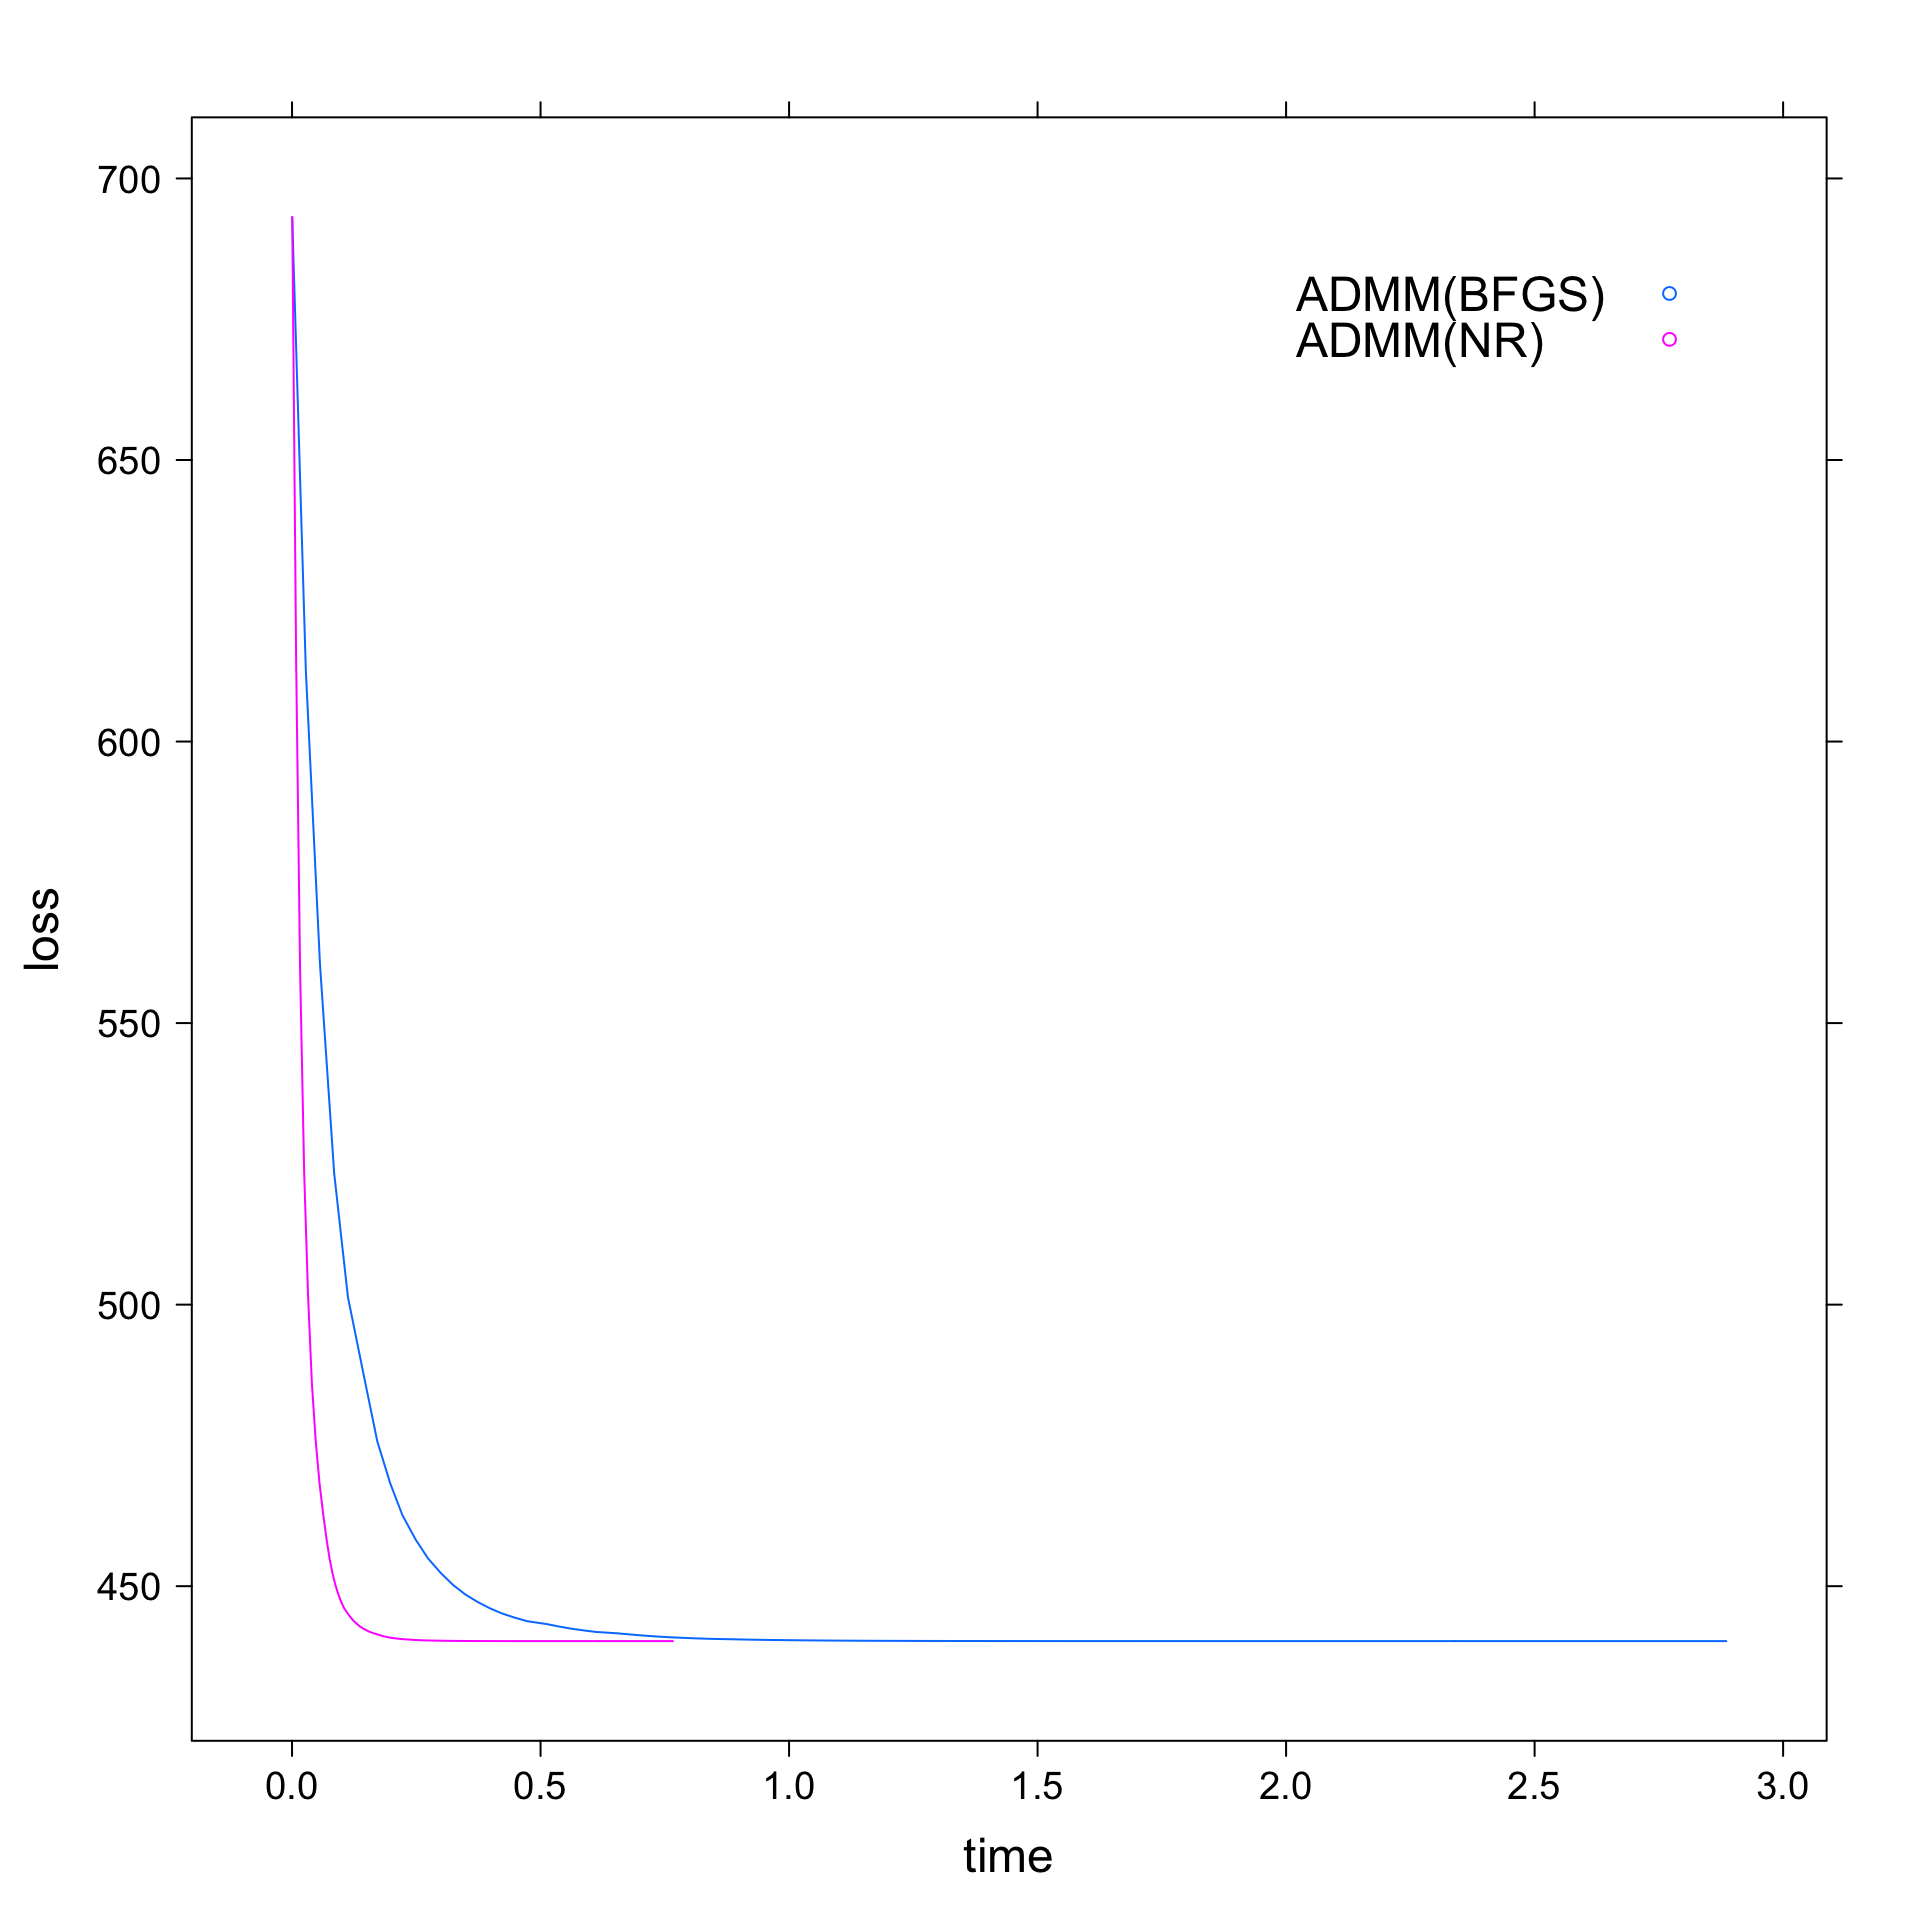
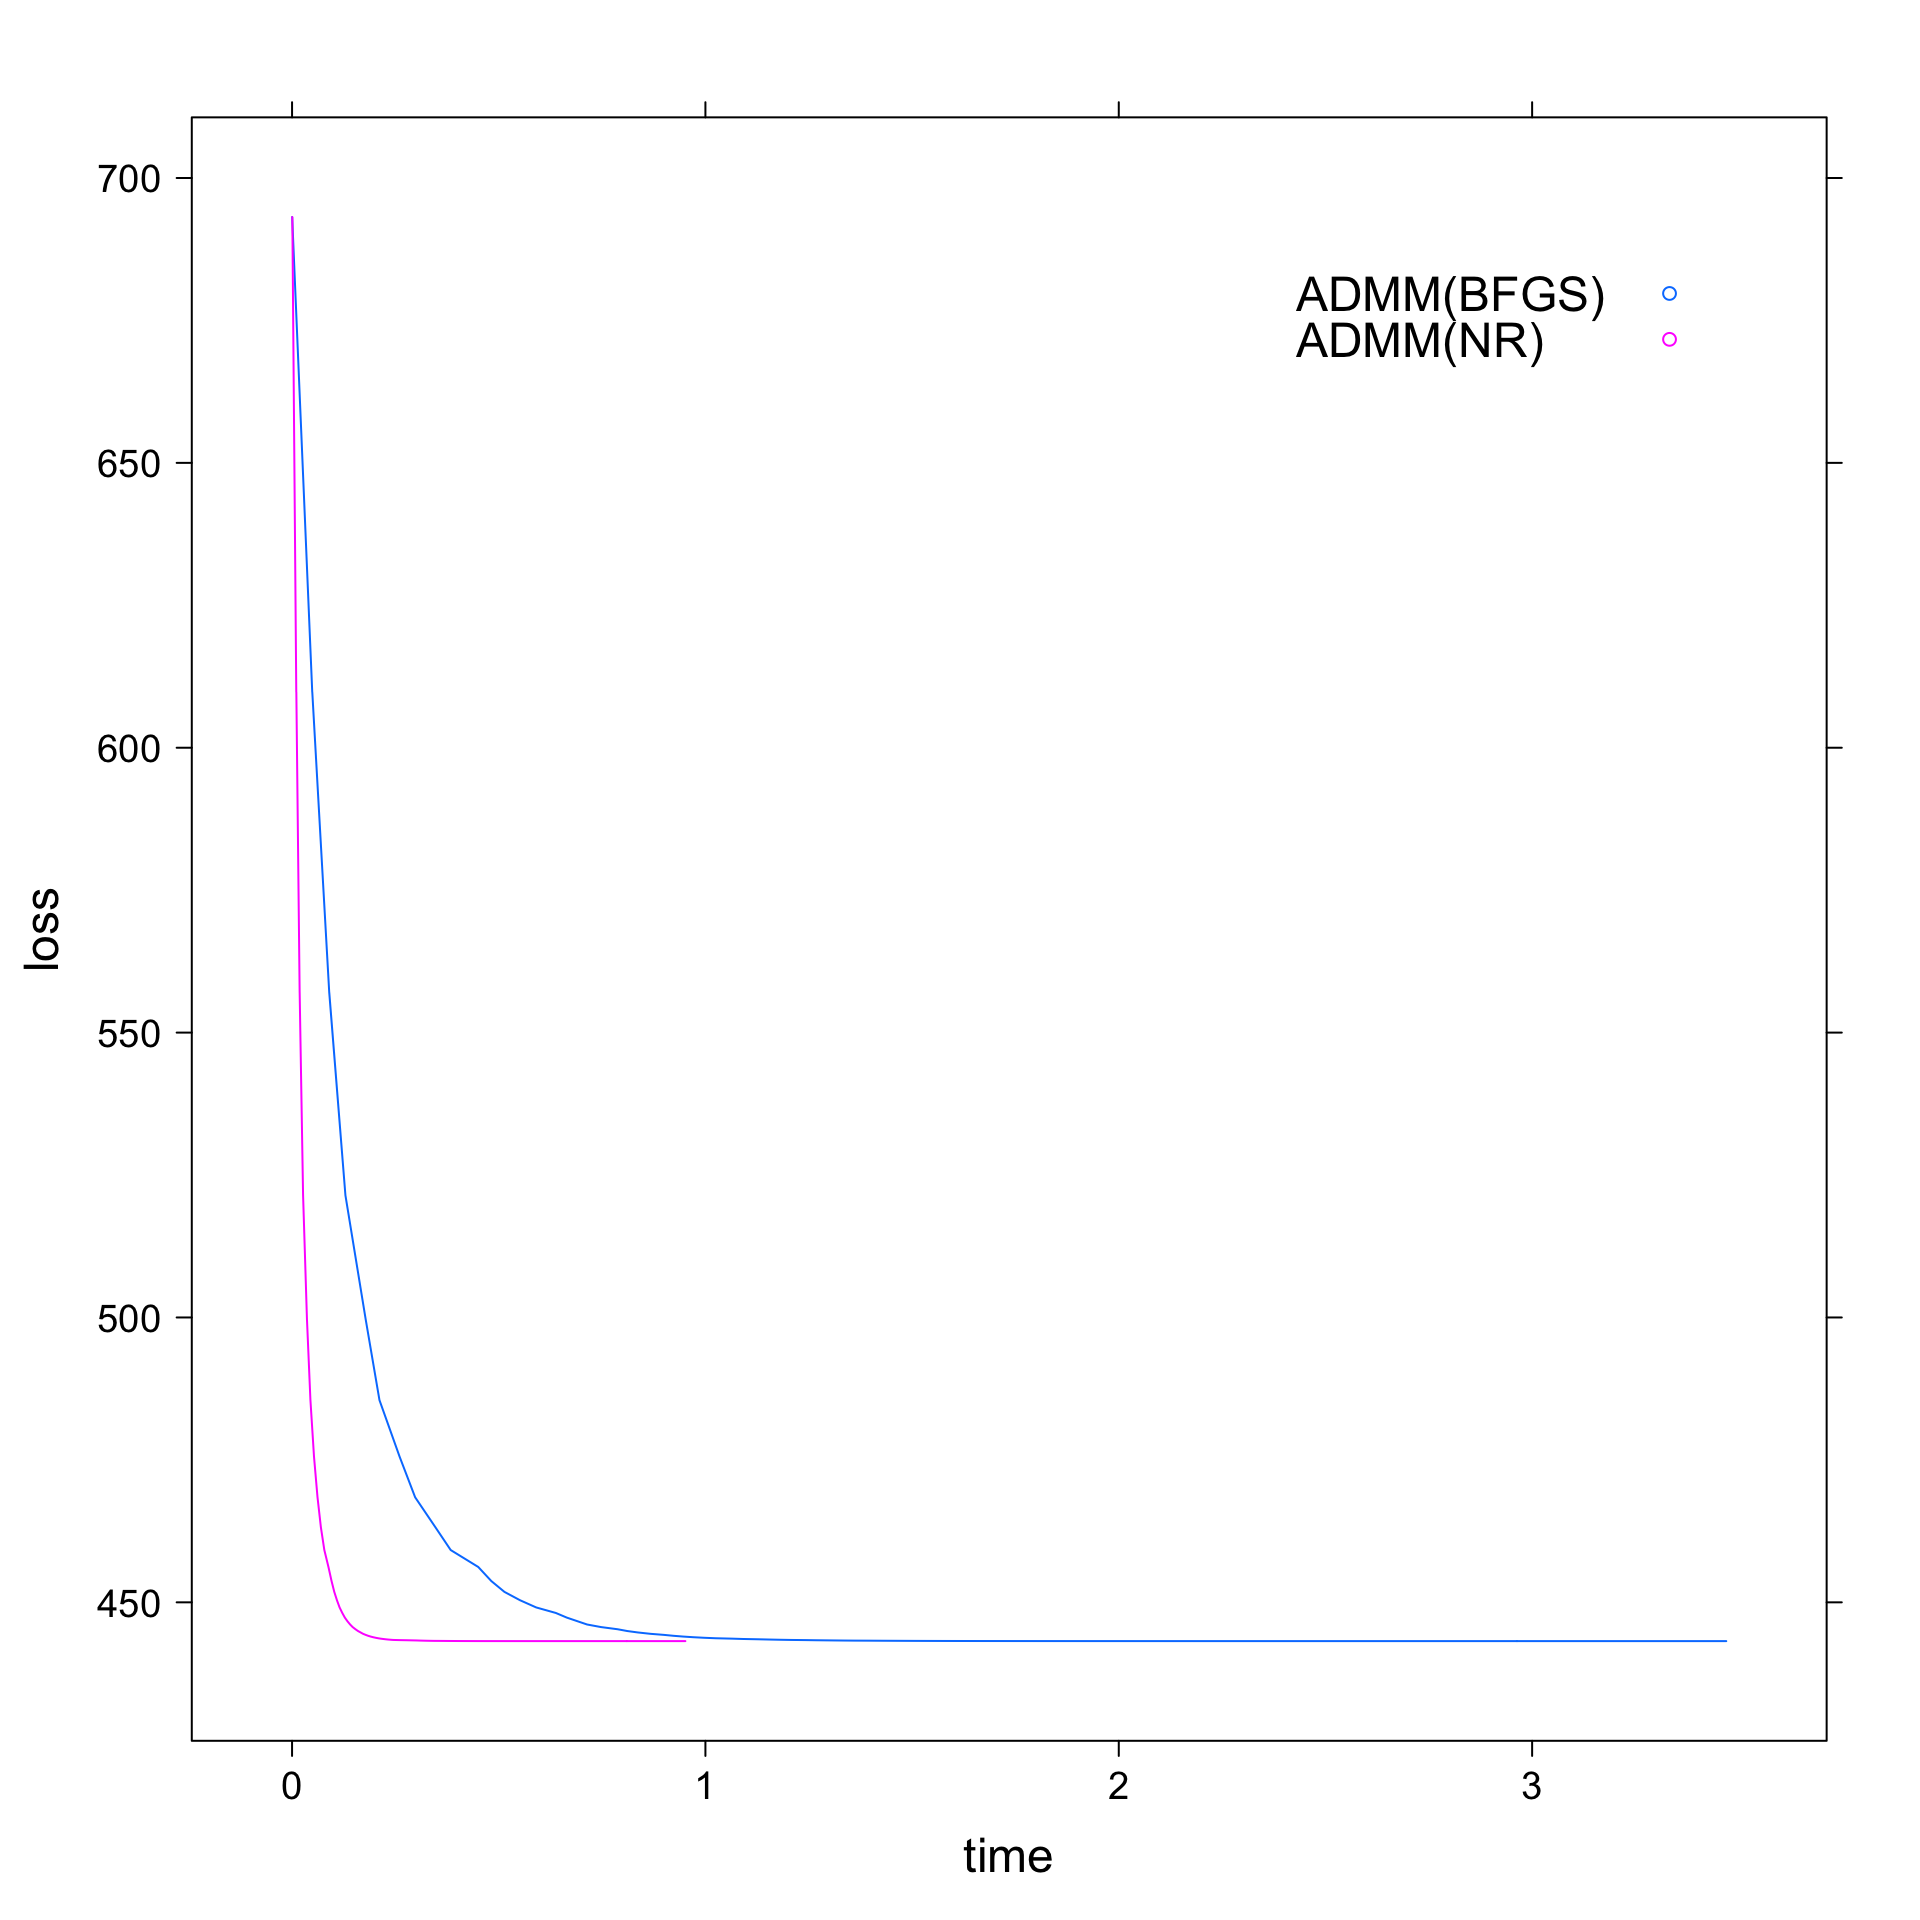
Built site for solvers: 1.0@316536c

diff --git a/404.html b/404.html
@@ -18,8 +18,8 @@
 <script src="https://cdnjs.cloudflare.com/ajax/libs/twitter-bootstrap/3.4.1/js/bootstrap.min.js" integrity="sha256-nuL8/2cJ5NDSSwnKD8VqreErSWHtnEP9E7AySL+1ev4=" crossorigin="anonymous"></script>
 
 <!-- bootstrap-toc -->
-<link rel="stylesheet" href="https://straw-boy.github.io/solvers//bootstrap-toc.css">
-<script src="https://straw-boy.github.io/solvers//bootstrap-toc.js"></script>
+<link rel="stylesheet" href="bootstrap-toc.css">
+<script src="bootstrap-toc.js"></script>
 
 <!-- Font Awesome icons -->
 <link rel="stylesheet" href="https://cdnjs.cloudflare.com/ajax/libs/font-awesome/5.12.1/css/all.min.css" integrity="sha256-mmgLkCYLUQbXn0B1SRqzHar6dCnv9oZFPEC1g1cwlkk=" crossorigin="anonymous" />
@@ -33,8 +33,8 @@
 <script src="https://cdnjs.cloudflare.com/ajax/libs/headroom/0.11.0/jQuery.headroom.min.js" integrity="sha256-ZX/yNShbjqsohH1k95liqY9Gd8uOiE1S4vZc+9KQ1K4=" crossorigin="anonymous"></script>
 
 <!-- pkgdown -->
-<link href="https://straw-boy.github.io/solvers//pkgdown.css" rel="stylesheet">
-<script src="https://straw-boy.github.io/solvers//pkgdown.js"></script>
+<link href="pkgdown.css" rel="stylesheet">
+<script src="pkgdown.js"></script>
 
 
 
@@ -70,7 +70,7 @@
         <span class="icon-bar"></span>
       </button>
       <span class="navbar-brand">
-        <a class="navbar-link" href="https://straw-boy.github.io/solvers//index.html">solvers</a>
+        <a class="navbar-link" href="index.html">solvers</a>
         <span class="version label label-default" data-toggle="tooltip" data-placement="bottom" title="Released version">1.0</span>
       </span>
     </div>

diff --git a/reference/index.html b/reference/index.html
@@ -131,12 +131,40 @@
     <tbody>
       <tr>
         <th colspan="2">
-          <h2 id="section-main-functionality" class="hasAnchor"><a href="#section-main-functionality" class="anchor"></a>Main Functionality</h2>
-          <p class="section-desc"><p>Fit the model with <code>SLOPE()</code>, visualize the results with <code>plot.SLOPE()</code>, and produce predictions for new data with <code>predict.SLOPE()</code>.</p></p>
+          <h2 id="section-all-functions" class="hasAnchor"><a href="#section-all-functions" class="anchor"></a>All functions</h2>
+          <p class="section-desc"></p>
         </th>
       </tr>
       
       
+    </tbody><tbody>
+      
+      
+      <tr>
+        
+        <td>
+          <p><code><a href="ADMM.html">ADMM()</a></code> </p>
+        </td>
+        <td><p>ADMM</p></td>
+      </tr><tr>
+        
+        <td>
+          <p><code><a href="FISTA.html">FISTA()</a></code> </p>
+        </td>
+        <td><p>FISTA</p></td>
+      </tr><tr>
+        
+        <td>
+          <p><code><a href="mergeFits.html">mergeFits()</a></code> </p>
+        </td>
+        <td><p>FISTA</p></td>
+      </tr><tr>
+        
+        <td>
+          <p><code><a href="randomProblem.html">randomProblem()</a></code> </p>
+        </td>
+        <td><p>Code borrowed from SLOPE package for generating datasets</p></td>
+      </tr>
     </tbody>
     </table>
   </div>

diff --git a/articles/compare_opt_algo.html b/articles/compare_opt_algo.html
@@ -110,9 +110,9 @@
 <div class="sourceCode" id="cb4"><pre class="downlit">
 <span class="co"># Comparing total execution time</span>
 <span class="fu"><a href="https://rdrr.io/r/base/print.html">print</a></span>(<span class="kw">admm_nr</span><span class="op">$</span><span class="kw">total_time</span>)
-<span class="co">#&gt; [1] 0.7730084</span>
+<span class="co">#&gt; [1] 0.9589564</span>
 <span class="fu"><a href="https://rdrr.io/r/base/print.html">print</a></span>(<span class="kw">admm_bfgs</span><span class="op">$</span><span class="kw">total_time</span>)
-<span class="co">#&gt; [1] 2.907861</span>
+<span class="co">#&gt; [1] 3.498741</span>
 </pre></div>
 <p>Now, these fits cannot be directly used to plot as they contain a lot of parameter so we’ll call a utility function that merges the relevant parameter and returns a dataframe.</p>
 <div class="sourceCode" id="cb5"><pre class="downlit">

diff --git a/articles/compare-fista-admm.html b/articles/compare-fista-admm.html
@@ -111,9 +111,9 @@
 <div class="sourceCode" id="cb4"><pre class="downlit">
 <span class="co"># Comparing total execution time</span>
 <span class="fu"><a href="https://rdrr.io/r/base/print.html">print</a></span>(<span class="kw">fista_fit</span><span class="op">$</span><span class="kw">total_time</span>)
-<span class="co">#&gt; [1] 1.808687</span>
+<span class="co">#&gt; [1] 1.287539</span>
 <span class="fu"><a href="https://rdrr.io/r/base/print.html">print</a></span>(<span class="kw">admm_fit</span><span class="op">$</span><span class="kw">total_time</span>)
-<span class="co">#&gt; [1] 4.38977</span>
+<span class="co">#&gt; [1] 4.425858</span>
 </pre></div>
 <p>Now, these fits cannot be directly used to plot as they contain a lot of parameter so we’ll call a utility function that merges the relevant parameter and returns a dataframe.</p>
 <div class="sourceCode" id="cb5"><pre class="downlit">
